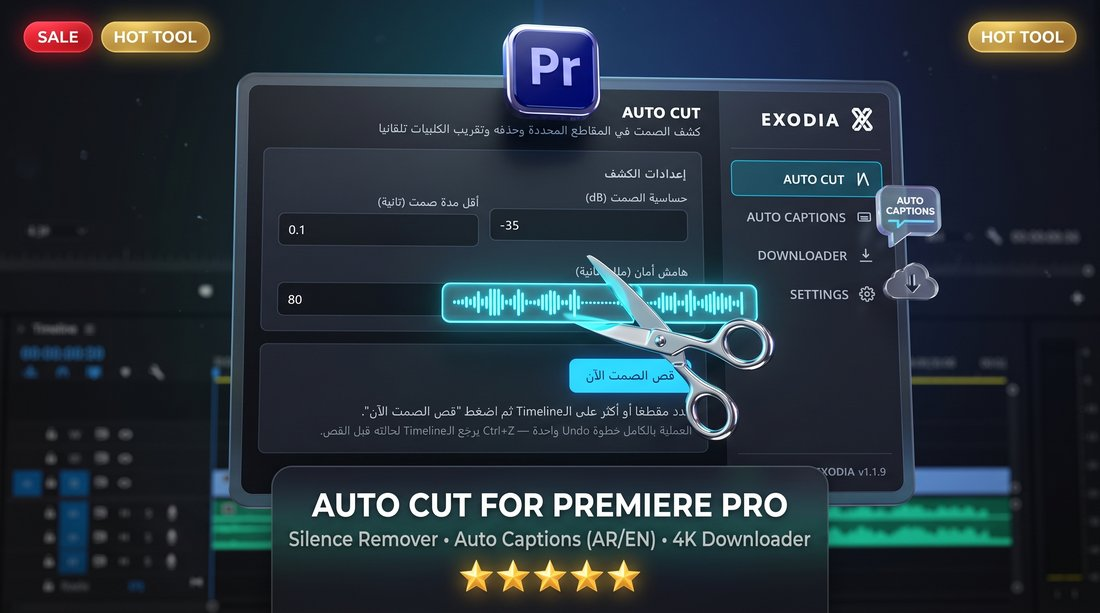
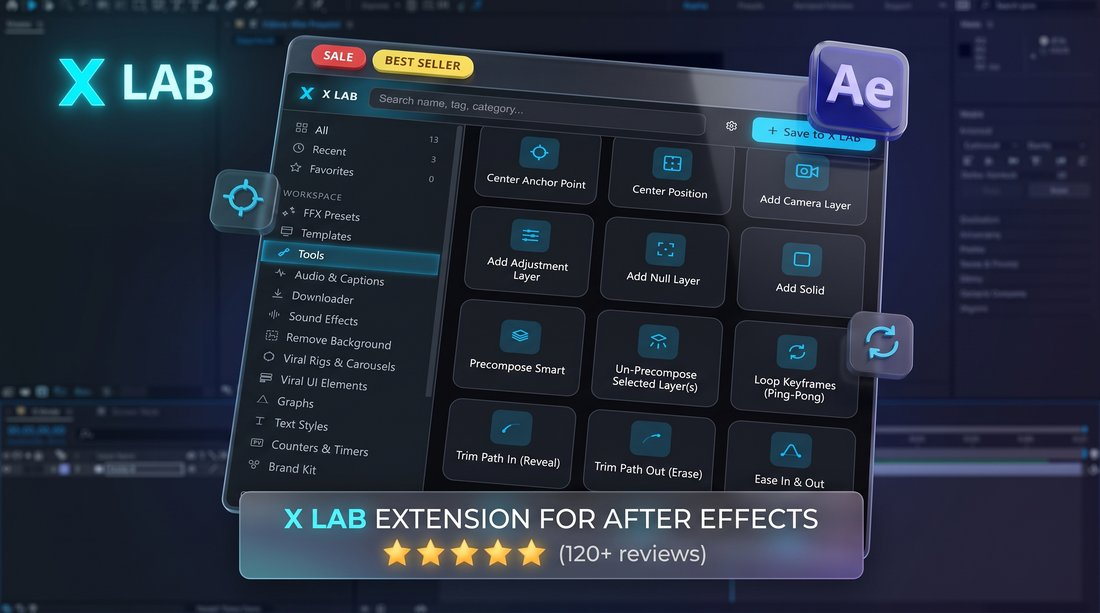
Fix swapped X LAB/AutoCut thumbnails, add savings ribbon, reviews hide button
- Fixed a real mistake from the previous commit: shot-xlab.jpg and
  shot-autocut.jpg had been mapped from the wrong source files (their
  generic AI-generated filenames didn't match content, and I mapped by
  filename guess instead of the content I'd actually viewed) -- X LAB was
  showing the Auto Cut render and vice versa
- Added a "توفير أكتر من 60%" savings ribbon floating above the bundle
  card (the actual anchor-to-sale discount is ~66%, so this is accurate)
- Added a hide button for the testimonial screenshots: after revealing
  them via the gate button, a new "إخفاء لقطات الشات" button collapses
  the grid again and brings the gate back

diff --git a/assets/styles.css b/assets/styles.css
@@ -292,6 +292,8 @@ h2.section-title em{ font-style: normal; color: var(--brand); }
 .reviews__grid{ display: grid; grid-template-columns: repeat(2,minmax(0,1fr)); gap: var(--sp-3); margin-top: var(--sp-5); }
 @media (min-width: 640px){ .reviews__grid{ grid-template-columns: repeat(3,minmax(0,1fr)); } }
 .reviews__grid.is-hidden{ display: none; }
+.reviews__hide{ text-align: center; margin-top: var(--sp-5); }
+.reviews__hide.is-hidden{ display: none; }
 .review-shot{ position: relative; border-radius: var(--radius-md); overflow: hidden; border: 1px solid var(--border); background: var(--bg-1); aspect-ratio: 3/4; cursor: zoom-in; }
 .review-shot img{ width: 100%; height: 100%; object-fit: cover; transition: transform var(--dur-med) var(--ease); }
 .review-shot:hover img{ transform: scale(1.045); }
@@ -338,6 +340,12 @@ h2.section-title em{ font-style: normal; color: var(--brand); }
 /* The bundle is the anchor deal -- give it a bit more visual weight than the à-la-carte cards */
 @media (min-width: 640px){
   .product-card--bundle{ border-color: var(--border-brand); box-shadow: 0 0 0 1px var(--border-brand), 0 20px 50px -18px rgba(9,172,233,0.35); }
+}
+.product-card__savings-ribbon{
+  position: absolute; top: -14px; inset-inline-start: 50%; transform: translateX(-50%); z-index: 3;
+  background: linear-gradient(135deg, var(--gold), #ffd98a); color: var(--brand-ink);
+  font-size: .78rem; font-weight: 800; padding: .45em 1.3em; border-radius: var(--radius-full);
+  box-shadow: var(--shadow-md); white-space: nowrap;
 }
 .product-card__title{ font-family: var(--font-display); font-weight: 700; font-size: var(--text-lg); }
 .product-card__desc{ color: var(--text-3); font-size: var(--text-sm); }

diff --git a/index.html b/index.html
@@ -419,6 +419,9 @@
             <div class="review-shot reveal" data-full="assets/photo_5_2026-07-30_11-56-45.jpg"><img src="assets/photo_5_2026-07-30_11-56-45.jpg" alt="لقطة شات واتساب حقيقية من عميل EXODIA رقم 5" loading="lazy" /></div>
             <div class="review-shot reveal" data-full="assets/photo_6_2026-07-30_11-56-45.jpg"><img src="assets/photo_6_2026-07-30_11-56-45.jpg" alt="لقطة شات واتساب حقيقية من عميل EXODIA رقم 6" loading="lazy" /></div>
           </div>
+          <div class="reviews__hide is-hidden" id="reviewsHideWrap">
+            <button class="btn btn-secondary" id="reviewsHideBtn">إخفاء لقطات الشات</button>
+          </div>
           <p class="reviews__note"><span data-review-count>6</span> محادثات واتساب فعلية من عملاء بعد تفعيل المكتبة</p>
         </div>
       </section>
@@ -438,6 +441,7 @@
           </p>
           <div class="product-cards reveal">
             <div class="product-card product-card--bundle is-active" data-product="bundle" role="button" tabindex="0" aria-pressed="true">
+              <span class="product-card__savings-ribbon">توفير أكتر من 60%</span>
               <div class="product-card__visual product-card__visual--bundle">
                 <img src="assets/shot-library.jpg" alt="الباقة الشاملة: مكتبة EXODIA وإكستنشنز X LAB والأوتوكات والتيكست بريتس" loading="lazy" />
               </div>

diff --git a/assets/main.js b/assets/main.js
@@ -135,10 +135,21 @@
 
   var revealGate = document.getElementById("reviewsGate");
   var reviewsGrid = document.getElementById("reviewsGrid");
+  var reviewsHideWrap = document.getElementById("reviewsHideWrap");
+  var reviewsHideBtn = document.getElementById("reviewsHideBtn");
   if (revealGate && reviewsGrid) {
     revealGate.addEventListener("click", function () {
       reviewsGrid.classList.remove("is-hidden");
       revealGate.style.display = "none";
+      if (reviewsHideWrap) reviewsHideWrap.classList.remove("is-hidden");
+    });
+  }
+  if (reviewsHideBtn && reviewsGrid && revealGate) {
+    reviewsHideBtn.addEventListener("click", function () {
+      reviewsGrid.classList.add("is-hidden");
+      reviewsHideWrap.classList.add("is-hidden");
+      revealGate.style.display = "";
+      revealGate.scrollIntoView({ behavior: "smooth", block: "center" });
     });
   }
 
